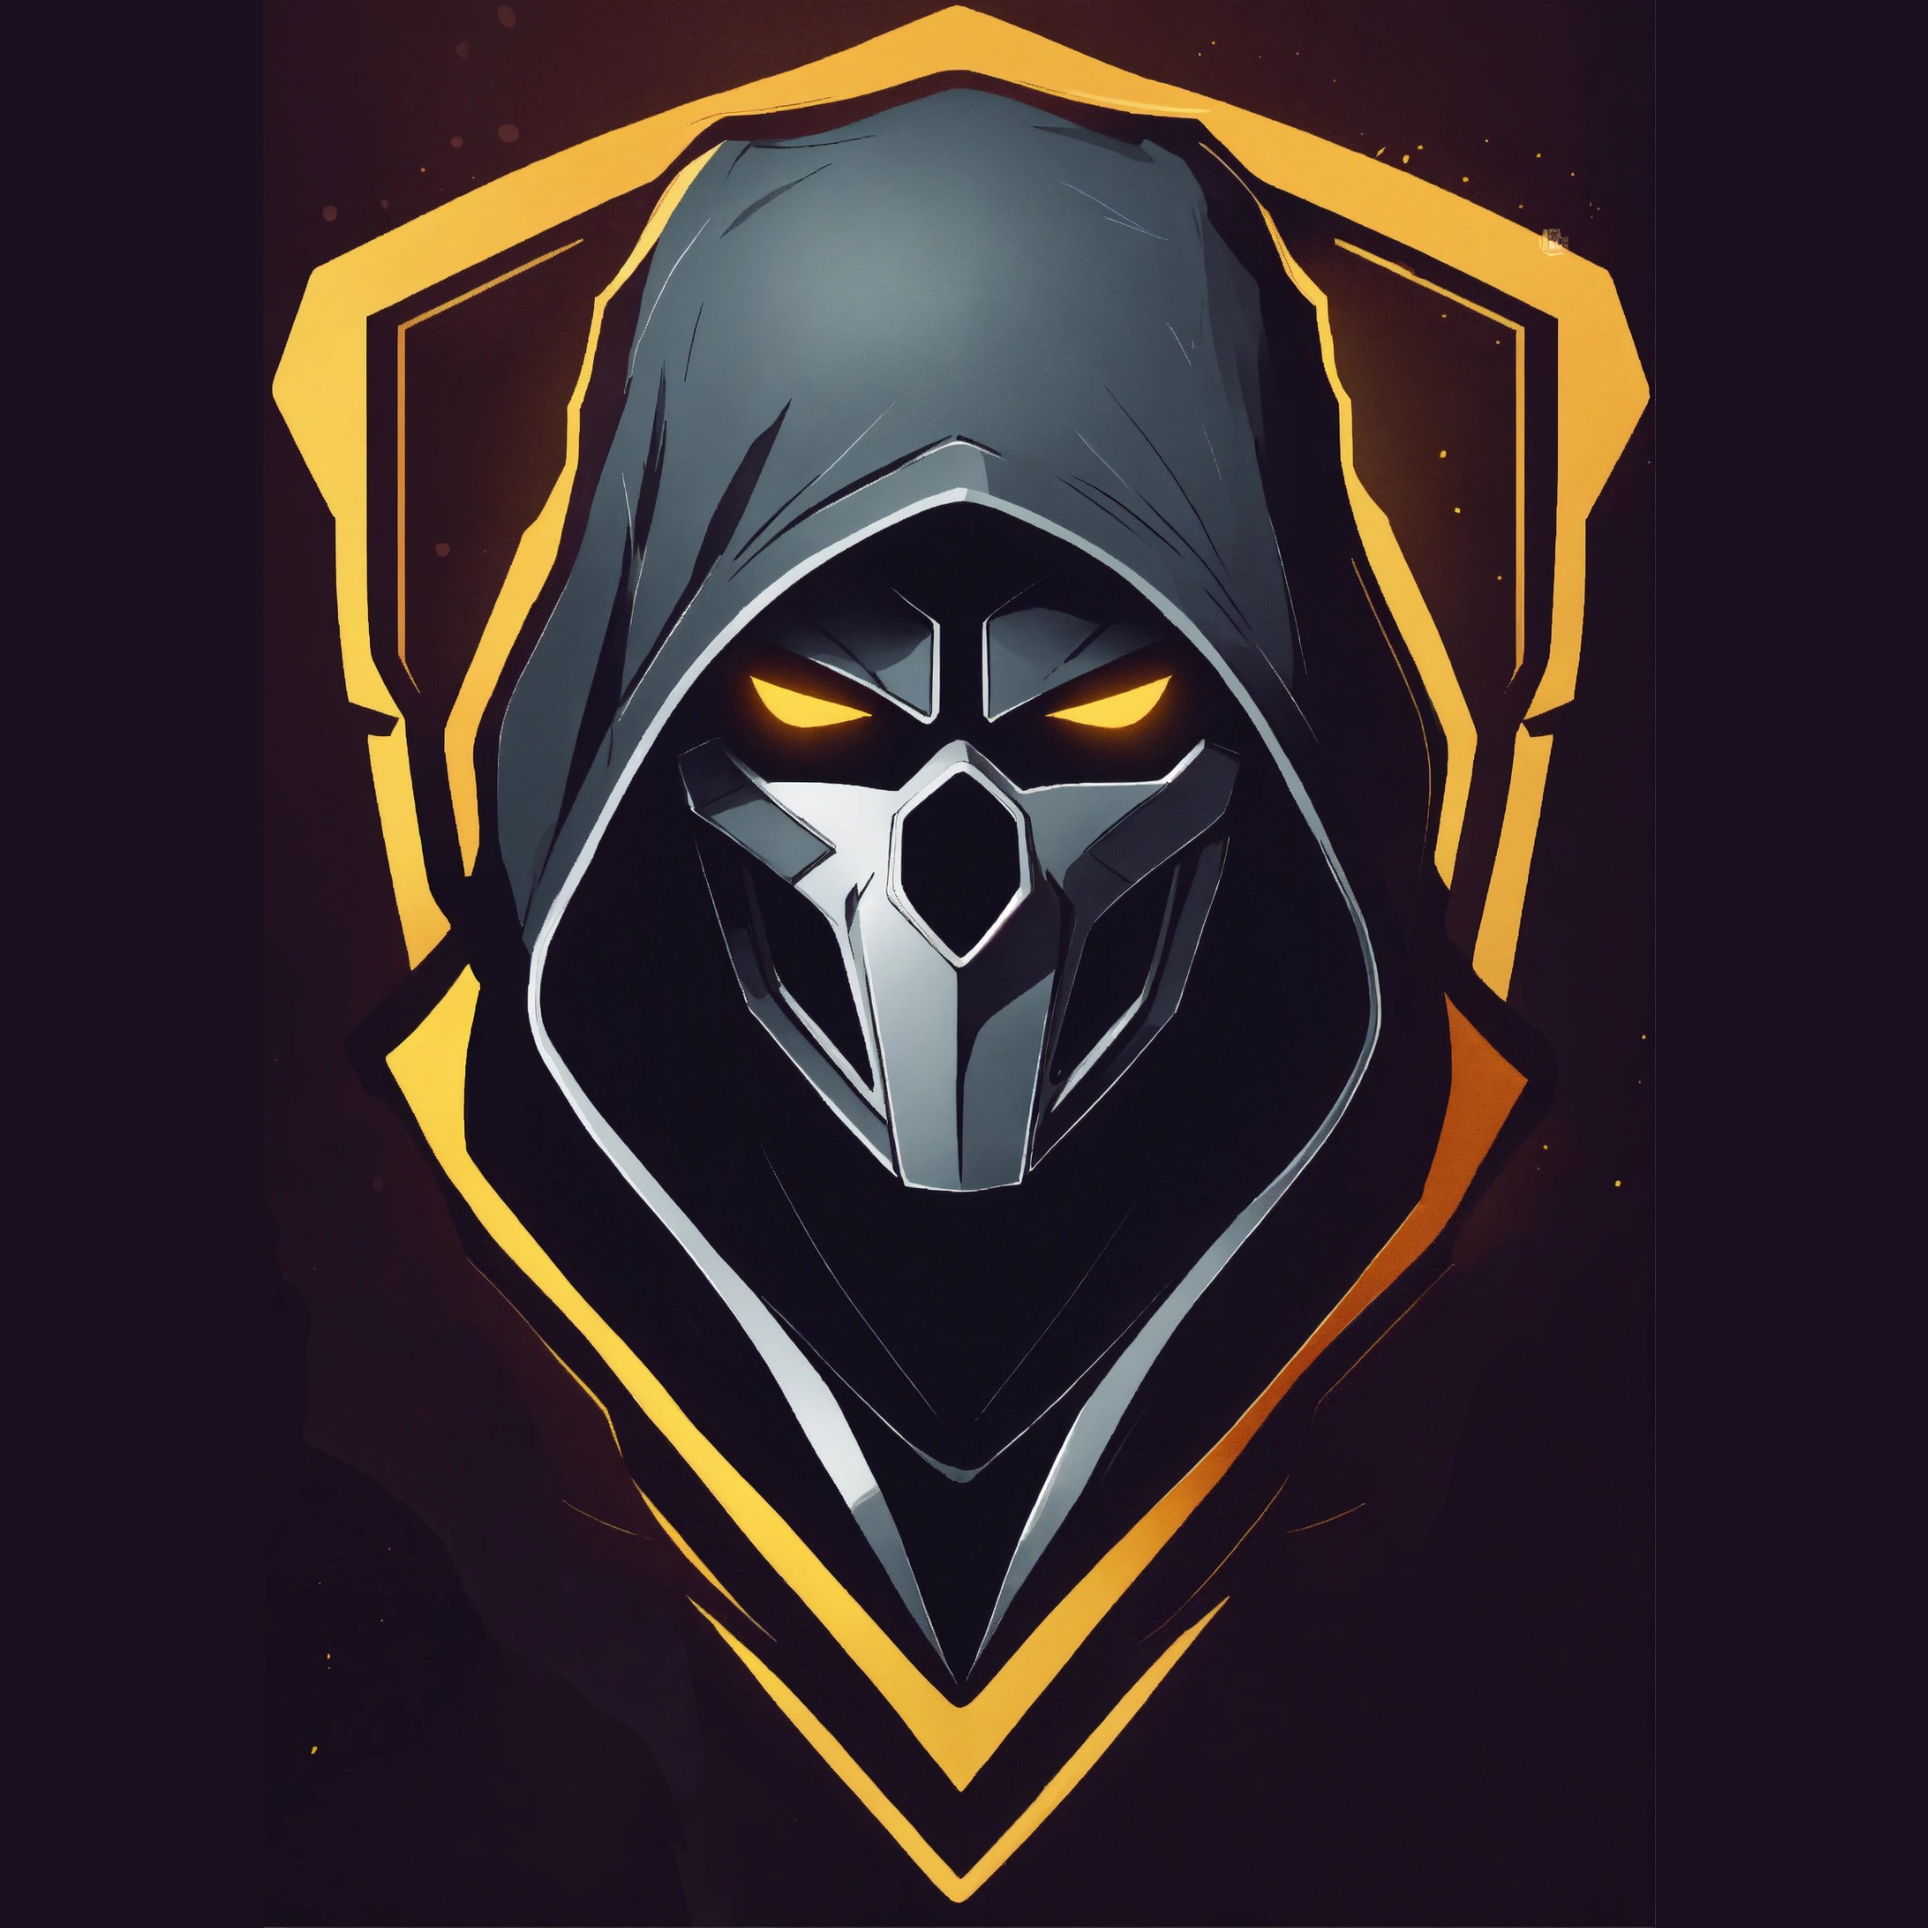
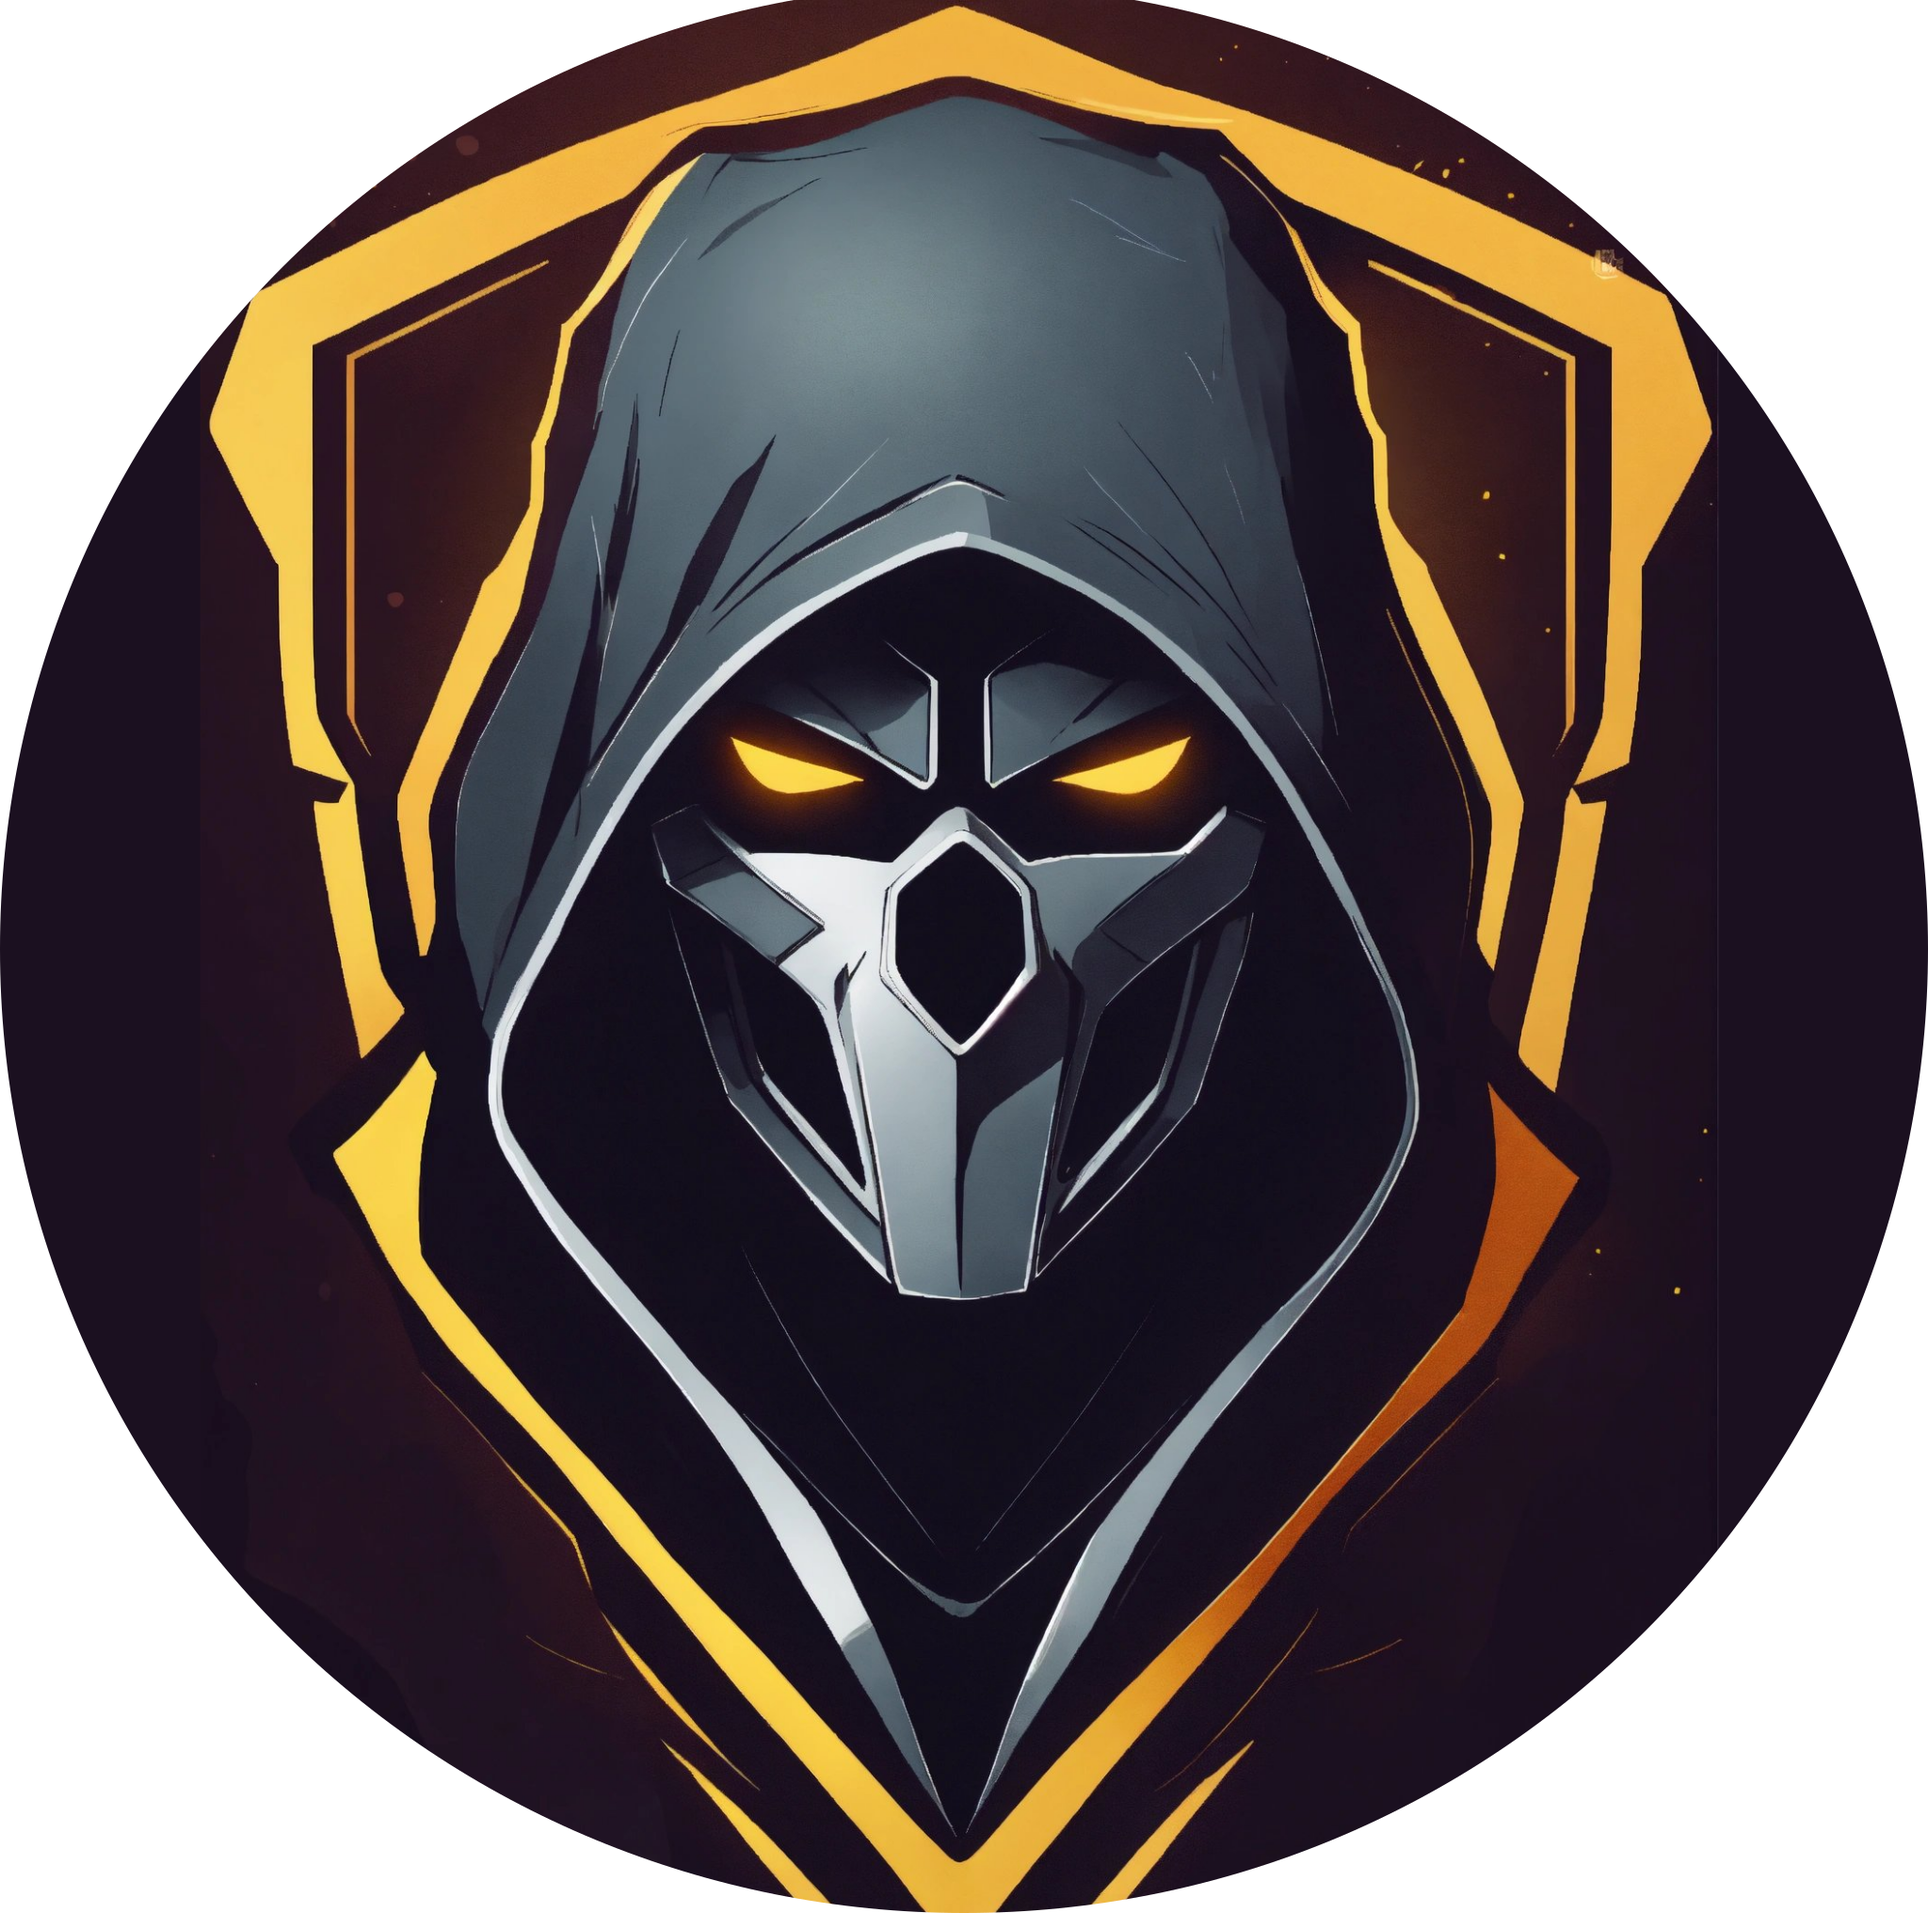
Remake premiados with round images

diff --git a/README.md b/README.md
@@ -6,7 +6,7 @@ En este repositorio encontrarán el código que realicemos en clase. Si desean p
 
 | Hacker | Debugger | Skinner|
 |:-:|:-:|:-:|
-| <img src="readme_imgs/hacker.png" alt="### Hacker" title="Hacker" style="display: inline-block; margin: 0px auto; max-width: 150px; border-radius: 50%"> | <img src="readme_imgs/debugger.png" alt="### Hacker" title="Hacker" style="display: inline-block; margin: 0px auto; max-width: 150px; border-radius: 50%"> | <img src="readme_imgs/skinner.png" alt="### Hacker" title="Hacker" style="display: inline-block; margin: 0px auto; max-width: 150px; border-radius: 50%"> |
+| ![](readme_imgs/hacker.png) | ![](readme_imgs/debugger.png) | ![](readme_imgs/skinner.png) |
 | - | - | - |
 |  |  |  |
 
